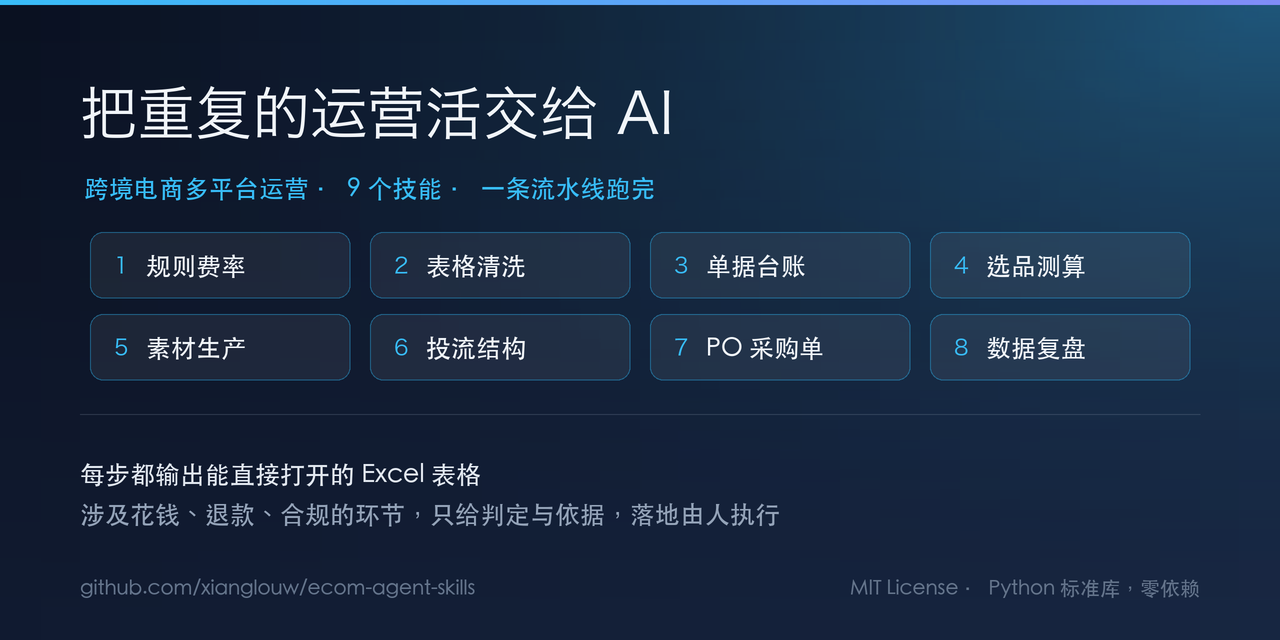
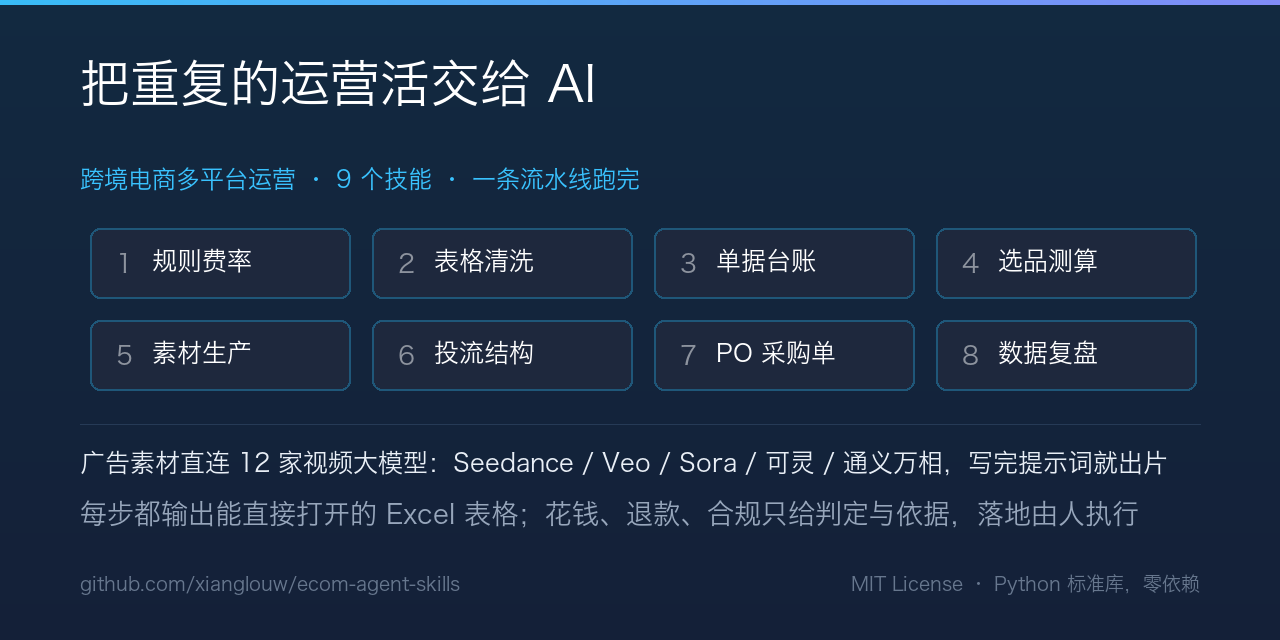
新版本 About 与 Topics：素材投流标签上线，社交预览图重做
一、About 描述换成能体现新能力的版本
- 加入「写广告脚本与生图/视频提示词、直连 Seedance / Veo / Sora / 可灵等 12 家视频大模型出片」
- 保留「每步都输出能直接打开的 Excel」「花钱、退款、合规由人执行」两句定位
- 三个备选版本（问题清单式 / 中英混合 / 技术向）同步更新，都标了字符数

二、Topics 20 个名额重配：5 换 5
- 新增素材与投流 5 个：advertising(1,402) / ad-creative(50) / ai-image-generation(578) /
  text-to-video(1,095) / ai-video-generator(255)
- 让出 5 个泛 AI 词：llm(131,420) / ai-agents(91,404) / vibe-coding(6,143) /
  data-cleaning(8,220) / workflow-automation(7,467)
- 数字均为 2026-09 GitHub 实测；补了备选词池（ads / meta-ads / tiktok-ads / ugc /
  short-video / dropshipping 等）与取舍原则，换标签不用再重新调研

三、社交预览图重做
- 新增 .github/make_social_preview.py（Pillow 绘制，改文案重跑即可，不用重排版）
- docs/social-preview.png 更新：八个阶段色块 + 两行卖点（含「直连 12 家视频大模型出片」）

四、顺手修两处文档错误
- 设置步骤里 Topics 指向的章节号写错（第三节 → 第四节），中英混合版叫法也不对
- 预览图尺寸信息过期（202 KB → 115 KB）

验证：About 描述 211 字符（GitHub 上限 350）；Topics 实为 20 个（硬上限 20）；
预览图 1280×640、115 KB（上限 1 MB）。

diff --git a/.github/make_social_preview.py b/.github/make_social_preview.py
@@ -1,0 +1,122 @@
+#!/usr/bin/env python3
+"""生成仓库社交预览图 docs/social-preview.png（1280×640）。
+
+分享到群、公众号或社交媒体时，GitHub 会显示这张图而不是默认头像。
+改文案只要改下面的 COPY 再跑一次，版式不动、自动适配宽度。
+
+用法：python3 .github/make_social_preview.py
+需要 Pillow（只在生成这张图时用到，技能本身零依赖）。
+"""
+
+import os
+import sys
+
+try:
+    from PIL import Image, ImageDraw, ImageFont
+except ImportError:  # 让报错信息说人话
+    sys.exit("需要 Pillow 才能生成预览图：pip install Pillow")
+
+WIDTH, HEIGHT = 1280, 640
+OUT = os.path.join(os.path.dirname(os.path.abspath(__file__)), "..", "docs", "social-preview.png")
+FONT_PATH = "/System/Library/Fonts/Hiragino Sans GB.ttc"
+
+# 配色（与仓库既有的深色卡片一致）
+BG_TOP, BG_BOTTOM = (18, 41, 64), (20, 32, 56)
+BAR_START, BAR_END = (56, 188, 247), (129, 140, 248)
+TITLE_COLOR = (255, 255, 255)
+SUBTITLE_COLOR = (57, 194, 254)
+BOX_FILL, BOX_BORDER = (30, 40, 61), (31, 87, 121)
+BOX_INDEX_COLOR = (141, 147, 158)
+BOX_LABEL_COLOR = (255, 255, 255)
+RULE_COLOR = (38, 58, 86)
+LINE1_COLOR = (233, 239, 246)
+LINE2_COLOR = (151, 166, 187)
+FOOTER_COLOR = (103, 119, 142)
+
+COPY = {
+    "title": "把重复的运营活交给 AI",
+    "subtitle": "跨境电商多平台运营 · 9 个技能 · 一条流水线跑完",
+    "stages": ["规则费率", "表格清洗", "单据台账", "选品测算",
+               "素材生产", "投流结构", "PO 采购单", "数据复盘"],
+    "line1": "广告素材直连 12 家视频大模型：Seedance / Veo / Sora / 可灵 / 通义万相，写完提示词就出片",
+    "line2": "每步都输出能直接打开的 Excel 表格；花钱、退款、合规只给判定与依据，落地由人执行",
+    "footer_left": "github.com/xianglouw/ecom-agent-skills",
+    "footer_right": "MIT License · Python 标准库，零依赖",
+}
+
+
+def font(size, weight="W6"):
+    """Hiragino Sans GB 的粗细在同一个 ttc 里按顺序取：W3 细、W6 粗。"""
+    index = 1 if weight == "W6" else 0
+    return ImageFont.truetype(FONT_PATH, size, index=index)
+
+
+def fit(text, max_width, start, weight="W6", floor=16):
+    """字号从 start 往下试，直到这行文字塞得进 max_width。"""
+    size = start
+    while size > floor:
+        f = font(size, weight)
+        if f.getbbox(text)[2] - f.getbbox(text)[0] <= max_width:
+            return f
+        size -= 1
+    return font(floor, weight)
+
+
+def gradient_background():
+    """纵向渐变底色，顶部略亮、底部压暗。"""
+    image = Image.new("RGB", (WIDTH, HEIGHT), BG_TOP)
+    draw = ImageDraw.Draw(image)
+    for y in range(HEIGHT):
+        ratio = y / (HEIGHT - 1)
+        draw.line([(0, y), (WIDTH, y)],
+                  fill=tuple(round(a + (b - a) * ratio) for a, b in zip(BG_TOP, BG_BOTTOM)))
+    return image
+
+
+def rounded_box(draw, box, radius=10):
+    draw.rounded_rectangle(box, radius=radius, fill=BOX_FILL, outline=BOX_BORDER, width=2)
+
+
+def main():
+    image = gradient_background()
+    draw = ImageDraw.Draw(image)
+
+    # 顶部渐变条
+    for x in range(WIDTH):
+        ratio = x / (WIDTH - 1)
+        color = tuple(round(a + (b - a) * ratio) for a, b in zip(BAR_START, BAR_END))
+        draw.line([(x, 0), (x, 4)], fill=color)
+
+    left = 80
+    draw.text((left, 58), COPY["title"], font=font(54), fill=TITLE_COLOR)
+    draw.text((left, 166), COPY["subtitle"], font=font(24, "W3"), fill=SUBTITLE_COLOR)
+
+    # 8 个阶段方块：4 列 × 2 行
+    box_w, box_h, gap = 260, 70, 22
+    for index, label in enumerate(COPY["stages"]):
+        row, col = divmod(index, 4)
+        x = 90 + col * (box_w + gap)
+        y = 228 + row * (box_h + gap)
+        rounded_box(draw, [x, y, x + box_w, y + box_h])
+        draw.text((x + 26, y + 22), str(index + 1), font=font(26, "W3"), fill=BOX_INDEX_COLOR)
+        draw.text((x + 62, y + 20), label, font=font(27), fill=BOX_LABEL_COLOR)
+
+    draw.line([(left, 424), (WIDTH - left, 424)], fill=RULE_COLOR, width=1)
+
+    max_width = WIDTH - left * 2
+    draw.text((left, 450), COPY["line1"], font=fit(COPY["line1"], max_width, 27, "W3"), fill=LINE1_COLOR)
+    draw.text((left, 500), COPY["line2"], font=fit(COPY["line2"], max_width, 27, "W3"), fill=LINE2_COLOR)
+
+    draw.text((left, 574), COPY["footer_left"], font=font(19, "W3"), fill=FOOTER_COLOR)
+    right_font = font(19, "W3")
+    right_width = right_font.getbbox(COPY["footer_right"])[2] - right_font.getbbox(COPY["footer_right"])[0]
+    draw.text((WIDTH - left - right_width, 574), COPY["footer_right"], font=right_font, fill=FOOTER_COLOR)
+
+    os.makedirs(os.path.dirname(OUT), exist_ok=True)
+    image.save(OUT, "PNG", optimize=True)
+    print(f"已写出 {os.path.normpath(OUT)}（{image.size[0]}×{image.size[1]}，"
+          f"{os.path.getsize(OUT) / 1024:.0f} KB，GitHub 上限 1 MB）")
+
+
+if __name__ == "__main__":
+    main()

diff --git a/.github/ABOUT.md b/.github/ABOUT.md
@@ -5,92 +5,99 @@
 ## 一、About 描述（推荐版）
 
 ```
-帮跨境电商卖家把重复的运营活交给 AI：查规则和费率、清理后台乱表、手写单据拍照记账、算选品利润和定价、写广告脚本和视频提示词、做采购单、出复盘报告。每步都输出能直接打开的 Excel 表格，涉及钱和合规的环节留给人确认。覆盖 Amazon、Shopee、TikTok Shop、Temu、Lazada、美客多等平台。
+帮跨境电商卖家把重复的运营活交给 AI：查规则费率、清理后台乱表、手写单据拍照记账、算选品利润定价、写广告脚本与生图/视频提示词、直连 Seedance / Veo / Sora / 可灵等 12 家视频大模型出片、做采购单、跑投放复盘。每步都输出能直接打开的 Excel 表格；花钱、退款、合规只给判定与依据，落地由人执行。覆盖 Amazon、Shopee、TikTok Shop、Temu、Lazada、美客多等平台。
 ```
 
-159 字符，未超 GitHub 的 350 字符上限。
+211 字符，未超 GitHub 的 350 字符上限。
 
-**为什么这么写**：不写「Agent 技能集」「工作流编排」「输出信封」这类词——看仓库的人大部分是运营和老板，不是工程师。开头一句「把重复的运营活交给 AI」直接说清它是干嘛的，后面用七个动词短语列清楚能替人做哪些事，最后补一句「输出能直接打开的 Excel」和「钱与合规留给人确认」——这两句是运营最关心的：**给我能用的东西，别让我担风险**。末尾的平台名是为了搜索命中。
+**为什么这么写**：不写「Agent 技能集」「工作流编排」「输出信封」这类词——看仓库的人大部分是运营和老板，不是工程师。开头一句「把重复的运营活交给 AI」直接说清它是干嘛的，中间用一串动词短语列清楚能替人做哪些事，其中「直连 12 家视频大模型出片」是这一版的新增能力，也是运营最想省掉的环节（写完提示词不用再一个个平台手动传），最后补一句「输出能直接打开的 Excel」和「花钱、退款、合规由人执行」——这两句是运营最关心的：**给我能用的东西，别让我担风险**。末尾的平台名是为了搜索命中。
+
+把视频大模型的名字写进 Description（Seedance / Veo / Sora / 可灵）是因为它们是搜索热词：有人搜「Seedance 怎么用」「Veo 出片」时，Description 会被 GitHub 搜索索引到。
 
 前面提到过的技术向版本（含 `Agent 技能集`、`8 段工作流` 等表述）仍然可用，见下方备选。
 
 ## 二、备选版本
 
-**问题清单式**（开头就把痛点摆出来，124 字符）：
+**问题清单式**（开头就把痛点摆出来，136 字符）：
 
 ```
-跨境电商运营里最耗人的几件事，交给 AI 做：规则费率查得慢、后台导出的表要手动清、手写单据要一笔笔敲、选品定价算不清、广告脚本和视频提示词写不出来、下单怕错、复盘没时间写。每一步都输出能直接打开的 Excel 表格，涉及钱和合规的环节留给人确认。
+跨境电商运营里最耗人的几件事，交给 AI 做：规则费率查得慢、后台导出的表要手动清、手写单据要一笔笔敲、选品定价算不清、广告脚本和视频提示词写不出来、出片要一个个平台手动传、下单怕错、复盘没时间写。每一步都输出能直接打开的 Excel 表格，涉及钱和合规的环节留给人确认。
 ```
 
-**中英混合**（想同时吸引海外流量，206 字符）：
+**中英混合**（想同时吸引海外流量，229 字符）：
 
 ```
-帮跨境电商卖家把重复的运营活交给 AI：查规则费率、清理后台乱表、手写单据拍照记账、算选品利润、写广告脚本、做采购单、出复盘报告，每步都输出能直接打开的 Excel。AI operations assistant for cross-border e-commerce sellers. Amazon · Shopee · TikTok Shop · Temu · Lazada · Mercado Libre.
+帮跨境电商卖家把重复的运营活交给 AI：查规则费率、清理后台乱表、手写单据拍照记账、算选品利润、写广告脚本、生图与视频提示词直连 12 家视频大模型出片、做采购单、出复盘报告，每步都输出能直接打开的 Excel。AI operations assistant for cross-border e-commerce sellers. Amazon / Shopee / TikTok Shop / Temu / Lazada / Mercado Libre.
 ```
 
-**技术向精简版**（面向开发者与 Agent 生态，200 字符）：
+**技术向精简版**（面向开发者与 Agent 生态，216 字符）：
 
 ```
-跨境电商多平台运营 Agent 技能集：规则费率、表格清洗、手写单据拍照记账、选品测算、视频素材、广告投流、PO 单、ROI 复盘，9 个技能可独立调用也可串成流水线。Cross-border e-commerce agent skills · Amazon · Shopee · TikTok Shop · Temu · Lazada · Mercado Libre · Excel export.
+跨境电商多平台运营 Agent 技能集：规则费率、表格清洗、手写单据拍照记账、选品测算、视频素材（直连 12 家视频大模型出片）、广告投流、PO 单、ROI 复盘，9 个技能可独立调用也可串成流水线。Cross-border e-commerce agent skills / Amazon / Shopee / TikTok Shop / Temu / Lazada / Mercado Libre / Excel export.
 ```
 
 ## 三、这套技能是做什么的（大白话版）
 
 > **用来做什么**
-> 帮跨境电商卖家把每天重复的运营活交给 AI 干：查平台规则和费率、把手写采购销售单据拍照录成电子台账（字迹潦草也认得出，认不准就不入账）、清理后台导出的表格、算选品利润和定价、写广告脚本和视频提示词、做采购单、跑投放数据复盘。
+> 帮跨境电商卖家把每天重复的运营活交给 AI 干：查平台规则和费率、把手写采购销售单据拍照录成电子台账（字迹潦草也认得出，认不准就不入账）、清理后台导出的表格、算选品利润和定价、写广告脚本和生图/视频素材提示词（写完可以直接连上视频大模型出片）、做采购单、跑投放数据复盘。
 >
 > **解决什么问题**
-> 平台规则和费率太散，查一次要一两小时，还容易漏，漏了就是违规扣费；后台导出的表口径不一，每次都要手动整理；手写单据要一笔笔敲进 Excel，算错一个数当天的账就对不上，字迹一笔潦草就更没法录；选品定价靠拍脑袋，运费关税把利润吃掉才发现；广告素材做不出来，做出来前三秒留不住人；下单金额、起订量、交期容易出错；复盘靠回忆，说不清为什么亏。
+> 平台规则和费率太散，查一次要一两小时，还容易漏，漏了就是违规扣费；后台导出的表口径不一，每次都要手动整理；手写单据要一笔笔敲进 Excel，算错一个数当天的账就对不上，字迹一笔潦草就更没法录；选品定价靠拍脑袋，运费关税把利润吃掉才发现；广告素材做不出来，做出来前三秒留不住人，好不容易写好提示词还要一个个平台手动传、等出片；下单金额、起订量、交期容易出错；复盘靠回忆，说不清为什么亏。
 >
 > **能输出什么**
-> 能直接打开的 Excel 表格（每份含多张工作表，单据台账里还带照片回链和标红标黄）、可读的复盘与对账报告、写明「哪张照片哪一行哪一格要重拍」的补拍清单、带风险标记和待办清单的结构化结论。涉及花钱、退款、合规的环节只给判定和依据，落地由人来执行。
+> 能直接打开的 Excel 表格（每份含多张工作表，单据台账里还带照片回链和标红标黄）、可读的复盘与对账报告、写明「哪张照片哪一行哪一格要重拍」的补拍清单、带风险标记和待办清单的结构化结论；素材侧还能直接给出成片文件与生成台账（哪条提示词、投了哪个平台哪个模型、什么时候出片、失败原因是什么，一行一条）。涉及花钱、退款、合规的环节只给判定和依据，落地由人来执行。
 
 这一段可以直接贴在仓库介绍、群分享、公众号推文或 Release 说明里，不带技术词。
 
 ## 四、Topics 标签（20 个，整行粘贴）
 
 ```
-cross-border-ecommerce, ecommerce-automation, agent-skills, ai-agent, ai-agents, llm, prompt-engineering, vibe-coding, workflow-automation, amazon, shopee, tiktok-shop, temu, lazada, mercado-libre, roas, data-cleaning, excel, ocr, bookkeeping
+cross-border-ecommerce, ecommerce-automation, excel, ocr, bookkeeping, roas, advertising, ad-creative, ai-image-generation, text-to-video, ai-video-generator, amazon, shopee, tiktok-shop, temu, lazada, mercado-libre, agent-skills, ai-agent, prompt-engineering
 ```
 
 ### 逐条对照（含同类仓库数）
 
 「同类仓库数」= 在 GitHub 上挂了同一个标签的仓库数量（2026-09 实测）。**数字大 = 大词、逛的人多但你也容易被淹没；数字小 = 精准词、同行少、更容易挂在该标签首页。**
 
-**① 品类与场景**
+**① 品类与场景（6 个）**
 
-| # | 标签 | 中文 | 同类仓库数 |
+| 标签 | 中文 | 同类仓库数 |
+| --- | --- | --- |
+| `cross-border-ecommerce` | 跨境电商 | 109 |
+| `ecommerce-automation` | 电商自动化 | 62 |
+| `excel` | Excel 表格 | 22,609 |
+| `ocr` | 拍照识字（手写单据识别） | 13,970 |
+| `bookkeeping` | 记账 / 台账 | 604 |
+| `roas` | 广告投产比 | 92 |
+
+**② 素材与投流（5 个，本轮新增，直接对应新的出片能力）**
+
+| 标签 | 中文 | 同类仓库数 | 为什么留它 |
 | --- | --- | --- | --- |
-| 1 | `cross-border-ecommerce` | 跨境电商 | 109 |
-| 2 | `ecommerce-automation` | 电商自动化 | 62 |
-| 3 | `data-cleaning` | 数据清洗 | 8,220 |
-| 4 | `excel` | Excel 表格 | 22,609 |
-| 5 | `ocr` | 光学字符识别（拍照识字） | 13,970 |
-| 6 | `bookkeeping` | 记账 / 台账 | 604 |
-| 7 | `roas` | 广告投产比 | 92 |
+| `advertising` | 广告投放 | 1,402 | 「广告投流」的通用词，卖家和投手都会搜 |
+| `ad-creative` | 广告素材创意 | 50 | 精准小众词：全站只有 50 个仓库挂着，同行少、容易被人翻到 |
+| `ai-image-generation` | AI 生图素材 | 578 | 「生图素材」：产品图、视频首帧图、封面图都归它 |
+| `text-to-video` | 文生视频 | 1,095 | 视频生成的通用说法，对应「提示词 → 出片」这一步 |
+| `ai-video-generator` | AI 视频生成 | 255 | 短视频素材工具类搜索词，投放人群常搜 |
 
-**② 平台**
+**③ 平台（6 个）**
 
-| # | 标签 | 中文 | 同类仓库数 |
-| --- | --- | --- | --- |
-| 8 | `amazon` | 亚马逊 | 4,006 |
-| 9 | `shopee` | 虾皮 | 216 |
-| 10 | `tiktok-shop` | TikTok 小店 | 69 |
-| 11 | `temu` | Temu（拼多多跨境） | 32 |
-| 12 | `lazada` | Lazada（东南亚） | 60 |
-| 13 | `mercado-libre` | 美客多（拉美） | 29 |
+| 标签 | 中文 | 同类仓库数 |
+| --- | --- | --- |
+| `amazon` | 亚马逊 | 4,006 |
+| `shopee` | 虾皮 | 216 |
+| `tiktok-shop` | TikTok 小店 | 69 |
+| `temu` | Temu（拼多多跨境） | 32 |
+| `lazada` | Lazada（东南亚） | 60 |
+| `mercado-libre` | 美客多（拉美） | 29 |
 
-**③ Agent 与 AI 工程**
+**④ Agent 与 AI 工程（3 个）**
 
-| # | 标签 | 中文 | 同类仓库数 |
-| --- | --- | --- | --- |
-| 14 | `agent-skills` | Agent 技能（技能包规范） | 23,043 |
-| 15 | `ai-agent` | AI 智能体 | 31,138 |
-| 16 | `ai-agents` | AI 智能体（复数，更常用） | 91,404 |
-| 17 | `llm` | 大语言模型 | 131,420 |
-| 18 | `prompt-engineering` | 提示词工程 | 18,220 |
-| 19 | `vibe-coding` | 氛围编程（AI 辅助开发） | 6,143 |
-| 20 | `workflow-automation` | 工作流自动化 | 7,467 |
+| 标签 | 中文 | 同类仓库数 |
+| --- | --- | --- |
+| `agent-skills` | Agent 技能（技能包规范） | 23,043 |
+| `ai-agent` | AI 智能体 | 31,138 |
+| `prompt-engineering` | 提示词工程 | 18,220 |
 
 ### 为什么必须用英文
 
@@ -104,7 +111,28 @@ GitHub 单个仓库的 Topics **硬上限 20 个**，这里已经用满，加不
 - **Release 标题与正文**（第五节）
 - **README 正文**（已含痛点对照表与运行链路）
 
-> 最近一轮替换了三个：`ecommerce` → `vibe-coding`（前者已被 `cross-border-ecommerce` 覆盖，后者是当下热门词）、`openai-codex` → `ai-agents`（搜索量远大于单一工具名）、`python` → `workflow-automation`（`python` 太泛，几乎带不来精准流量）。想换别的就用本节的标签互替，保持 20 个即可。
+### 这一轮换掉了哪 5 个、为什么
+
+这一版的新能力是「广告素材 + 生图 + 视频出片」，所以把 5 个泛 AI 词让给了 5 个素材投流词，总数仍是 20：
+
+| 换掉 | 原同类仓库数 | 为什么换 |
+| --- | --- | --- |
+| `llm` | 131,420 | 全网最大的词之一，挂上去等于扔进海里，且已被 `ai-agent` 覆盖 |
+| `ai-agents` | 91,404 | 与 `ai-agent` 是同义词，白占一个名额 |
+| `vibe-coding` | 6,143 | 开发者圈的词，目标人群（卖家、投手）不会搜 |
+| `data-cleaning` | 8,220 | 偏数据科学；仓库里的表格场景已由 `excel` 覆盖 |
+| `workflow-automation` | 7,467 | 泛自动化词，精准度不如新增的 `advertising` / `ad-creative` |
+
+### 备选词池（想再换，从这里挑，全部实测过）
+
+| 方向 | 可选标签（同类仓库数） |
+| --- | --- |
+| 投流向 | `ads` 1,459 · `marketing-automation` 1,530 · `meta-ads` 340 · `ugc` 220 · `tiktok-ads` 66 · `video-ads` 40 · `ecommerce-marketing` 4（极冷门，挂上就能排在该标签前排） |
+| 素材向 | `image-generation` 6,254 · `ai-video` 1,610 · `short-video` 307 |
+| 电商向 | `dropshipping` 198 |
+| 换回旧词 | `llm` 131,420 · `ai-agents` 91,404 · `data-cleaning` 8,220 · `workflow-automation` 7,467 · `vibe-coding` 6,143 |
+
+**取舍原则**：真正能带来电商人群的是 `cross-border-ecommerce`、`ecommerce-automation`、`excel` 加 6 个平台词，这 9 个别动；② 里的 5 个素材投流词是这一版的卖点，也别动；真要腾位置，从 ④ 里再让一个 AI 词出来。想换别的就用本节的标签互替，保持 20 个即可。
 
 ## 五、Release 标题（发布时用）
 
@@ -136,6 +164,14 @@ v0.1.0 首发 — 跨境电商运营 Agent 技能集 · Cross-border E-commerce 
 
 > Release 标题不像 Topics 有 20 个上限，可以放心把关键词写全；正文同样会被索引，把「选品 / 投流 / 采购 / 复盘 / 拍照记账」这类词自然写进正文比堆在标题里更耐看。
 
+**想突出这一版的素材直连能力**（已发布的 v0.1.0 也能改，见下方说明）：
+
+```
+v0.1.0 — 跨境电商运营 Agent 技能集：9 个技能 / 8 段工作流，广告素材直连 12 家视频大模型出片（Seedance · Veo · Sora · 可灵 · 通义万相）
+```
+
+> **已经发布的 Release 想换标题不用重新打包**：打开仓库的 Releases 页面 → 该版本的 **Edit** → 改标题 → Update release，立刻生效。视频大模型的名称（Seedance / Veo / Sora / 可灵 / 通义万相）本身就是搜索热词，写进标题能多接一批搜模型的流量。
+
 ## 六、技能运行链路（一段话，可贴到任何需要介绍的地方）
 
 > 一条主链路、一条支线、九个技能：**① 规则费率 → ② 表格清洗 → ③ 选品测算 → ④ 广告视频素材 → ⑤ 投流结构 → ⑦ ROI 复盘** 是主链路，**⑥ PO 单** 从 ③ 分叉、和 ⑤ 汇合进 ⑦；**②B 手写单据台账** 是独立支线，任何时候都能跑，产出的标准品名台账与采销数据可以喂给 ③ 补货、⑥ 下单、⑦ 核成本。复盘结论沿虚线回流，修正下一轮的选品参数与素材方向，形成闭环。① 与 ② 可并行，④ 与 ⑥ 可并行。每个环节都交付「表格 + 结构化信封 + 待办清单」，有高风险标记就停下来等人。
@@ -157,9 +193,9 @@ v0.1.0 首发 — 跨境电商运营 Agent 技能集 · Cross-border E-commerce 
 
 1. 打开 https://github.com/xianglouw/ecom-agent-skills
 2. 右侧 **About** 一栏点齿轮图标
-3. **Description** 粘贴第一节的推荐版（想吸引海外流量就用英文优先版）；**Website** 可留空
+3. **Description** 粘贴第一节的推荐版（想同时吸引海外流量就用第二节的中英混合版）；**Website** 可留空
 4. 勾选 **Releases** / **Packages** 视需要，建议至少勾 **Releases**
-5. 同一个弹窗里的 **Topics** 粘贴第三节那一整行（GitHub 会自动按逗号拆成标签）
+5. 同一个弹窗里的 **Topics** 粘贴 **第四节** 那一整行（GitHub 会自动按逗号拆成标签）
 6. **Social preview** 上传仓库里的 `docs/social-preview.png`
 7. 保存
 
@@ -171,9 +207,18 @@ v0.1.0 首发 — 跨境电商运营 Agent 技能集 · Cross-border E-commerce 
 docs/social-preview.png
 ```
 
-1280×640，202 KB（GitHub 上限 1 MB），深色卡片，内容是大白话标题「把重复的运营活交给 AI」+ 八个阶段色块 + 一行输出说明。分享到群、公众号或社交媒体时会显示这张图而不是默认头像；没有图片时 GitHub 会退化显示仓库名的纯色卡片，不影响功能。
+1280×640，115 KB（GitHub 上限 1 MB），深色卡片，内容是大白话标题「把重复的运营活交给 AI」+ 八个阶段色块（规则费率 / 表格清洗 / 单据台账 / 选品测算 / 素材生产 / 投流结构 / PO 采购单 / 数据复盘）+ 两行卖点：
 
-需要改文案时重跑生成脚本即可（图形由 Pillow 直接绘制，改字不用重排版）。
+- 广告素材直连 12 家视频大模型：Seedance / Veo / Sora / 可灵 / 通义万相，写完提示词就出片
+- 每步都输出能直接打开的 Excel 表格；花钱、退款、合规只给判定与依据，落地由人执行
+
+分享到群、公众号或社交媒体时会显示这张图而不是默认头像；没有图片时 GitHub 会退化显示仓库名的纯色卡片，不影响功能。
+
+需要改文案时改脚本顶部的文字常量、重跑即可（图形由 Pillow 直接绘制，改字不用重排版）：
+
+```
+python3 .github/make_social_preview.py
+```
 
 ## 九、仓库文件索引（给来访者指路）
 
@@ -186,10 +231,12 @@ docs/social-preview.png
 | 每个版本改了什么 | [CHANGELOG.md](../CHANGELOG.md) |
 | 最新版本的发布说明（可直接贴到 Release） | [docs/release-notes-v0.1.0.md](../docs/release-notes-v0.1.0.md) |
 | 仓库社交预览图 | [docs/social-preview.png](../docs/social-preview.png) |
+| 想改社交预览图上的文字 | [.github/make_social_preview.py](make_social_preview.py) |
 
 ## 十、曝光自查清单
 
-- [ ] About 描述已填，且包含「跨境电商」「Agent」「Excel」「台账 / 单据」四类词
+- [ ] About 描述已填，且包含「跨境电商」「Agent」「Excel」「台账 / 单据」「素材 / 投流」五类词
+- [ ] 素材与投流类标签已填（`advertising`、`ad-creative`、`ai-image-generation`、`text-to-video`、`ai-video-generator`），这是这一版最该被搜到的词
 - [ ] Topics 至少填满 15 个
 - [ ] README 第一屏有中英双语一句话说明（已具备）
 - [ ] README 里有指向 `docs/run-chain.md` 的入口（已具备）
